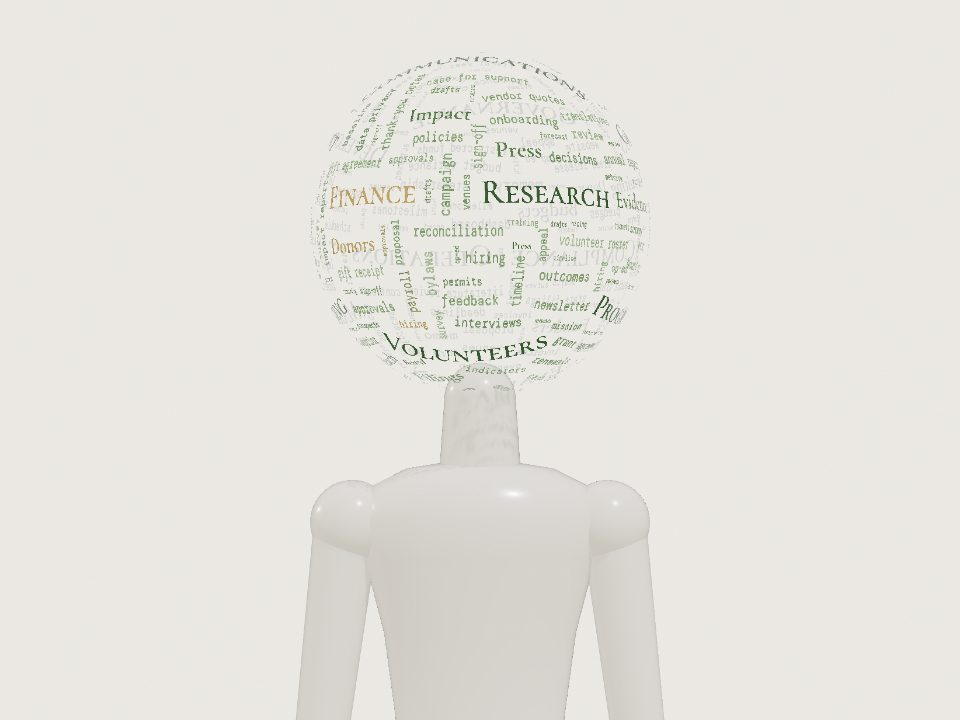
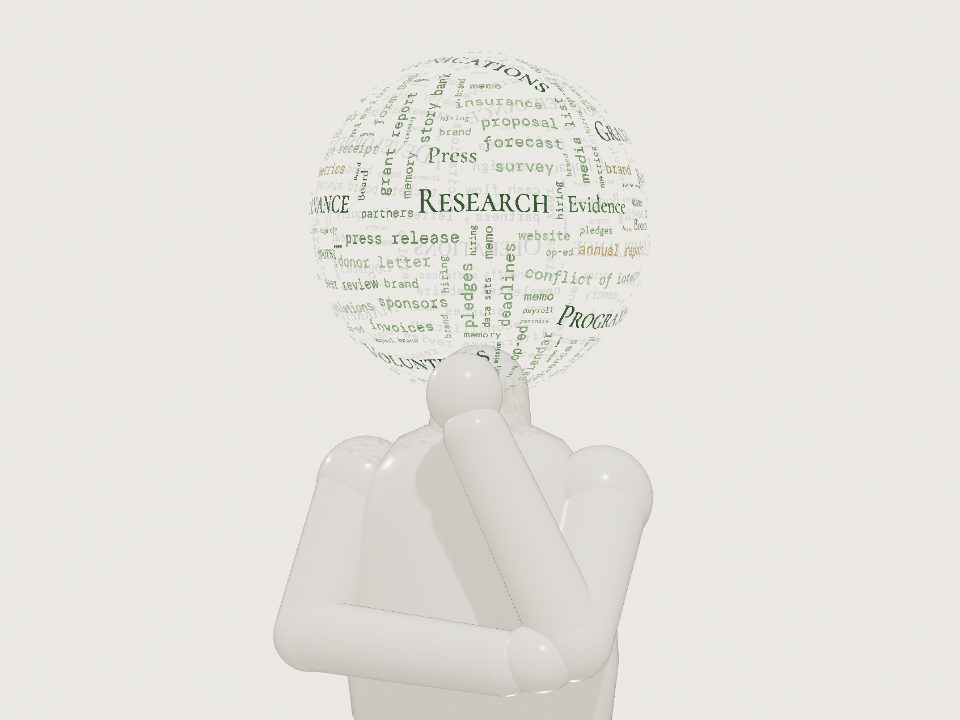
FSOS figure: shorter, stockier, thinking; balanced vocabulary
- Vocabulary is now one table: each of the twelve agents has its focus
  and eight pieces of work, plus eight words of the Chief of Staff's own
  (was 3 to 14 per agent). Every word keeps its owner, ready for a hover
- The figure is about three heads tall and rounder: a single egg-shaped
  torso, thick short limbs, round feet; it thinks, one hand at its chin,
  the other arm across its middle holding the elbow
- The camera now stops at a three-quarter view, seen a little from one
  side, cropping at the shins, so the word head stays large
- Fill favours short words and tries harder per gap: ~310 words, packed
  tighter; the head turns a little less while thinking
- Offerings menu image re-rendered from the new figure

Claude-Session: https://claude.ai/code/session_01MaxKzWZ5BHXyy5TwZGtmMv

diff --git a/js/fsos.js b/js/fsos.js
@@ -66,26 +66,24 @@ ground.receiveShadow = true;
 scene.add(ground);
 
 // ── The vocabulary ───────────────────────────────────────────────────────────
-const AGENTS = ["Research", "Grants", "Communications", "Governance", "Development", "Finance",
-  "Compliance", "Programs", "Volunteers", "Marketing", "Operations", "Evaluation"];
-const FOCUS = ["Evidence", "Funders", "Press", "Board", "Donors", "Budgets",
-  "Filings", "Services", "Recruiting", "Outreach", "Logistics", "Impact"];
-const WORK = ["grant report", "form 990", "gift receipt", "board minutes", "bylaws", "budget variance",
-  "cash flow", "audit trail", "donor letter", "press release", "newsletter", "annual report",
-  "logic model", "theory of change", "survey", "outcomes", "volunteer roster", "onboarding",
-  "schedule", "venues", "contracts", "insurance", "payroll", "invoices", "reconciliation", "policies",
-  "conflict of interest", "approvals", "timeline", "milestones", "partners", "sponsors", "campaign",
-  "appeal", "pledges", "stewardship", "thank-you notes", "case for support", "letter of inquiry",
-  "proposal", "deadlines", "renewals", "metrics", "dashboard", "interviews", "literature review",
-  "citations", "permits", "risk register", "memo", "agenda", "resolution", "fiscal year",
-  "restricted funds", "gift agreement", "grant agreement", "blueprint", "mission", "audiences",
-  "decisions", "sources", "memory", "drafts", "review", "site visits", "vendor quotes",
-  "state filings", "annual meeting", "committees", "job descriptions", "hiring", "training",
-  "data privacy", "accessibility", "translations", "social posts", "media list", "op-ed", "website",
-  "event plan", "run of show", "tickets", "budget to actuals", "forecast", "grant calendar",
-  "prospects", "major gifts", "in-kind gifts", "acknowledgments", "impact report",
-  "evaluation plan", "baseline", "indicators", "feedback", "lessons learned", "handoffs",
-  "requests", "sign-off"];
+// The twelve agents, what each looks after, and eight pieces of everyday work
+// each one handles; the Chief of Staff's own words coordinate them. Every
+// word keeps its owner.
+const WORKFORCE = [
+  { agent: "Research", focus: "Evidence", work: ["interviews", "literature review", "citations", "sources", "memo", "field notes", "data sets", "peer review"] },
+  { agent: "Grants", focus: "Funders", work: ["grant report", "letter of inquiry", "proposal", "deadlines", "renewals", "grant agreement", "grant calendar", "budget narrative"] },
+  { agent: "Communications", focus: "Press", work: ["press release", "newsletter", "annual report", "media list", "op-ed", "translations", "talking points", "story bank"] },
+  { agent: "Governance", focus: "Board", work: ["board minutes", "bylaws", "policies", "conflict of interest", "agenda", "resolution", "annual meeting", "committees"] },
+  { agent: "Development", focus: "Donors", work: ["gift receipt", "donor letter", "appeal", "pledges", "stewardship", "thank-you notes", "case for support", "major gifts"] },
+  { agent: "Finance", focus: "Budgets", work: ["budget variance", "cash flow", "payroll", "invoices", "reconciliation", "fiscal year", "restricted funds", "forecast"] },
+  { agent: "Compliance", focus: "Filings", work: ["form 990", "audit trail", "insurance", "permits", "risk register", "state filings", "data privacy", "gift agreement"] },
+  { agent: "Programs", focus: "Services", work: ["theory of change", "milestones", "partners", "site visits", "accessibility", "curriculum", "participants", "enrollment"] },
+  { agent: "Volunteers", focus: "Recruiting", work: ["volunteer roster", "onboarding", "training", "shift schedule", "background checks", "volunteer hours", "recognition", "sign-up forms"] },
+  { agent: "Marketing", focus: "Outreach", work: ["audiences", "social posts", "website", "tickets", "campaign", "sponsors", "email list", "brand"] },
+  { agent: "Operations", focus: "Logistics", work: ["schedule", "venues", "contracts", "timeline", "vendor quotes", "event plan", "run of show", "hiring"] },
+  { agent: "Evaluation", focus: "Impact", work: ["logic model", "survey", "outcomes", "metrics", "impact report", "baseline", "feedback", "lessons learned"] },
+];
+const CHIEF_OF_STAFF = ["blueprint", "mission", "decisions", "memory", "drafts", "approvals", "handoffs", "sign-off"];
 
 // Each style: atlas font, and the word's height on a head of radius 1
 const STYLES = {
@@ -95,10 +93,12 @@ const STYLES = {
 };
 
 // ── Figure geometry ──────────────────────────────────────────────────────────
-// A stock figure about five heads tall, standing on a round porcelain base.
+// A short, round stock figure about three heads tall, on a porcelain base.
 const HEAD_R = 1.15;
-const HEAD_C = new THREE.Vector3(0, 9.15, 0);
-const FIG_TOP = HEAD_C.y + HEAD_R, FIG_C = new THREE.Vector3(0, 5.6, 0);
+const HEAD_C = new THREE.Vector3(0, 6.15, 0);
+// The final view: three-quarters of the figure, from the head to the knees,
+// seen a little from one side
+const Q_C = new THREE.Vector3(0, 4.9, 0), Q_HALF_H = 3.6, Q_HALF_W = 1.8;
 
 // Deterministic randomness, so the cloud packs the same way every visit
 function mulberry32(a) {
@@ -109,9 +109,10 @@ function mulberry32(a) {
 const ATLAS_W = 2048, PAD = 6;
 const atlasCanvas = document.createElement("canvas");
 const entries = [
-  ...AGENTS.map((text) => ({ text, kind: "agent" })),
-  ...FOCUS.map((text) => ({ text, kind: "focus" })),
-  ...WORK.map((text) => ({ text, kind: "work" })),
+  ...WORKFORCE.map((a) => ({ text: a.agent, kind: "agent", owner: a.agent })),
+  ...WORKFORCE.map((a) => ({ text: a.focus, kind: "focus", owner: a.agent })),
+  ...WORKFORCE.flatMap((a) => a.work.map((text) => ({ text, kind: "work", owner: a.agent }))),
+  ...CHIEF_OF_STAFF.map((text) => ({ text, kind: "work", owner: "Chief of Staff" })),
 ];
 function layoutAtlas() {
   const ctx = atlasCanvas.getContext("2d");
@@ -203,7 +204,7 @@ function makeHash() {
 function packCloud() {
   const rnd = mulberry32(20261002);
   const hash = makeHash();
-  const GAP = 0.008;
+  const GAP = 0.006;
   let rMax = 0;
   const placed = [];
   const M = 6000, golden = Math.PI * (3 - Math.sqrt(5));
@@ -249,13 +250,18 @@ function packCloud() {
   // Fill: wherever a small word still fits, put one, smaller each pass, so
   // the words huddle together
   const pool = entries.filter((en) => en.kind !== "agent");
-  for (const scale of [0.8, 0.62, 0.48]) {
+  // Short words plug small gaps best: of two picks, take the shorter
+  const pick = () => {
+    const a = pool[Math.floor(rnd() * pool.length)], b = pool[Math.floor(rnd() * pool.length)];
+    return a.aspect <= b.aspect ? a : b;
+  };
+  for (const scale of [0.8, 0.62, 0.48, 0.38]) {
     const h = STYLES.work.h * scale, start = Math.floor(rnd() * M);
     for (let j = 0; j < M; j++) {
       const n = cand[(start + j * 2311) % M];
       if (hash.hits({ c: n, r: h / 2 }, GAP, rMax)) continue;
-      for (let k = 0; k < 4; k++) {
-        const en = pool[Math.floor(rnd() * pool.length)];
+      for (let k = 0; k < 8; k++) {
+        const en = pick();
         const hh = h * (en.kind === "focus" ? 1.3 : 1), vertical = rnd() < 0.3;
         if (tryPlace(en, hh, n, vertical) || tryPlace(en, hh, n, !vertical)) break;
       }
@@ -311,7 +317,7 @@ function buildCloud() {
       }
       if (i < S) { const a = first + i * 2; index.push(a, a + 2, a + 1, a + 1, a + 2, a + 3); }
     }
-    wordSpans.push({ first, count: v - first, tone, kind: p.en.kind, n: p.n, lit: 0, delay: 0 });
+    wordSpans.push({ first, count: v - first, tone, kind: p.en.kind, owner: p.en.owner, n: p.n, lit: 0, delay: 0 });
   });
   const geo = new THREE.BufferGeometry();
   geo.setAttribute("position", new THREE.BufferAttribute(pos, 3));
@@ -427,41 +433,43 @@ function blob(anchor, c, sx, sy, sz, order) {
   parts.push({ g, order });
 }
 {
-  // Neck and torso
-  limb(V(0, 7.95), V(0, 7.25), 0.25, 0.3, 0);
-  // One smooth piece from hips to shoulders
+  // Neck, and one round piece from hips to shoulders
+  limb(V(0, 4.98), V(0, 4.55), 0.34, 0.38, 0);
   const torso = new THREE.LatheGeometry([
-    [0.0, 4.4], [0.34, 4.44], [0.58, 4.6], [0.68, 4.85], [0.66, 5.25], [0.6, 5.7], [0.68, 6.3],
-    [0.82, 6.85], [0.88, 7.1], [0.78, 7.33], [0.52, 7.46], [0.28, 7.5], [0.0, 7.5],
+    [0.0, 2.05], [0.4, 2.1], [0.78, 2.3], [0.95, 2.65], [1.0, 3.1], [0.97, 3.6], [0.9, 4.05],
+    [0.8, 4.4], [0.6, 4.65], [0.32, 4.78], [0.0, 4.8],
   ].map(([x, y]) => new THREE.Vector2(x, y)), 64);
   const tg = new THREE.Group();
-  tg.position.set(0, 7.45, 0);
+  tg.position.set(0, 4.75, 0);
   const tm = shade(new THREE.Mesh(torso, porcelain));
-  tm.position.y = -7.45;
-  tm.scale.z = 0.64;
+  tm.position.y = -4.75;
+  tm.scale.z = 0.78;
   tg.add(tm);
   body.add(tg);
   parts.push({ g: tg, order: 1 });
-  // Arms: relaxed, a little away from the body
+  for (const s of [-1, 1]) blob(V(s * 0.82, 4.3), V(s * 0.88, 4.28), 0.36, 0.36, 0.36, 2);
+  // Thinking: one hand up at the chin...
+  const elbowR = V(0.95, 3.5, 0.95), wristR = V(0.3, 4.8, 0.95);
+  limb(V(0.92, 4.22, 0.08), elbowR, 0.3, 0.26, 3);
+  limb(elbowR, wristR, 0.25, 0.21, 4);
+  blob(wristR, V(0.2, 5.05, 0.88), 0.25, 0.27, 0.24, 5);
+  // ...the other arm across the middle, its hand cupping that elbow
+  const elbowL = V(-1.05, 3.3, 0.6), wristL = V(0.55, 3.35, 1.08);
+  limb(V(-0.92, 4.22, 0.08), elbowL, 0.3, 0.26, 3);
+  limb(elbowL, wristL, 0.25, 0.21, 4);
+  blob(wristL, V(0.76, 3.4, 1.06), 0.26, 0.22, 0.24, 5);
+  // Short, sturdy legs and round feet
   for (const s of [-1, 1]) {
-    blob(V(s * 0.84, 7.1), V(s * 0.9, 7.08), 0.3, 0.3, 0.3, 2);
-    limb(V(s * 0.95, 7.02), V(s * 1.13, 5.55, 0.04), 0.23, 0.19, 3);
-    limb(V(s * 1.13, 5.55, 0.04), V(s * 1.21, 4.25, 0.16), 0.185, 0.145, 4);
-    blob(V(s * 1.21, 4.25, 0.16), V(s * 1.22, 3.97, 0.18), 0.15, 0.27, 0.11, 5);
-  }
-  // Legs and feet
-  for (const s of [-1, 1]) {
-    limb(V(s * 0.36, 4.7), V(s * 0.42, 2.6, 0.02), 0.38, 0.28, 4);
-    limb(V(s * 0.42, 2.6, 0.02), V(s * 0.43, 0.64), 0.27, 0.19, 5);
-    blob(V(s * 0.43, 0.64), V(s * 0.44, 0.48, 0.18), 0.19, 0.16, 0.36, 6);
+    limb(V(s * 0.45, 2.35), V(s * 0.48, 0.62, 0.02), 0.46, 0.36, 4);
+    blob(V(s * 0.48, 0.62), V(s * 0.5, 0.5, 0.2), 0.3, 0.22, 0.46, 5);
   }
   // Round porcelain base
   const bg = new THREE.Group();
-  const base = shade(new THREE.Mesh(new THREE.CylinderGeometry(1.75, 1.85, 0.3, 96), porcelain));
+  const base = shade(new THREE.Mesh(new THREE.CylinderGeometry(1.65, 1.75, 0.3, 96), porcelain));
   base.position.y = 0.15;
   bg.add(base);
   body.add(bg);
-  parts.push({ g: bg, order: 7 });
+  parts.push({ g: bg, order: 6 });
 }
 parts.forEach((p) => p.g.scale.setScalar(0.0001));
 
@@ -508,7 +516,7 @@ function goHome() {
 
 // ── Framing: close on the head, then the whole figure ────────────────────────
 // Both views fit their subject to the screen; tall screens step back.
-let distHead = 5, distFig = 20;
+let distHead = 5, distQ = 10;
 function resize() {
   const w = canvas.clientWidth, h = canvas.clientHeight;
   if (!w || !h) return;
@@ -516,7 +524,7 @@ function resize() {
   camera.aspect = w / h;
   camera.updateProjectionMatrix();
   distHead = Math.max(HEAD_R / 0.62 / tanHalf, (HEAD_R + 0.45) / (tanHalf * camera.aspect));
-  distFig = Math.max((FIG_TOP / 2 + 1.5) / tanHalf, 2.6 / (tanHalf * camera.aspect));
+  distQ = Math.max(Q_HALF_H / tanHalf, Q_HALF_W / (tanHalf * camera.aspect));
 }
 window.addEventListener("resize", resize);
 resize();
@@ -551,7 +559,7 @@ const easeOutBack = (t) => { const c = 1.4; return 1 + (c + 1) * Math.pow(t - 1,
 
 const tmpColor = new THREE.Color(), camDir = new THREE.Vector3(), nWorld = new THREE.Vector3();
 const target = new THREE.Vector3(), viewDir = new THREE.Vector3();
-const viewHead = new THREE.Vector3(0, 0.16, 1).normalize(), viewFig = new THREE.Vector3(0, 0.1, 1).normalize();
+const viewHead = new THREE.Vector3(0, 0.16, 1).normalize(), viewQ = new THREE.Vector3(0.35, 0.1, 1).normalize();
 let lastT = 0, nextGlint = 0, colorsDirty = false, settled = false;
 
 function animate() {
@@ -606,9 +614,9 @@ function animate() {
     p.g.scale.setScalar(Math.max(0.0001, easeOutBack(k)));
   });
   const c = easeInOut(clamp01((g - 0.04) / 0.9));
-  target.lerpVectors(HEAD_C, FIG_C, c);
-  viewDir.lerpVectors(viewHead, viewFig, c).normalize();
-  const dist = distHead * Math.pow(distFig / distHead, c);
+  target.lerpVectors(HEAD_C, Q_C, c);
+  viewDir.lerpVectors(viewHead, viewQ, c).normalize();
+  const dist = distHead * Math.pow(distQ / distHead, c);
   camera.position.copy(target).addScaledVector(viewDir, dist);
   if (motionOK) {
     const k = 1 - Math.pow(0.02, dt);
@@ -622,7 +630,7 @@ function animate() {
 
   // Once whole, the head turns a little, as if thinking, and words light up
   if (motionOK && g >= 1 && settled) {
-    headGroup.rotation.y = Math.sin((since - RESOLVE - HOLD - REVEAL) * 0.35) * 0.4;
+    headGroup.rotation.y = Math.sin((since - RESOLVE - HOLD - REVEAL) * 0.35) * 0.3;
     headGroup.updateMatrixWorld();
     if (t >= nextGlint) {
       const front = wordSpans.filter((s) => s.lit <= 0 && nWorld.copy(s.n).transformDirection(headGroup.matrixWorld).dot(camDir) > 0.3);
